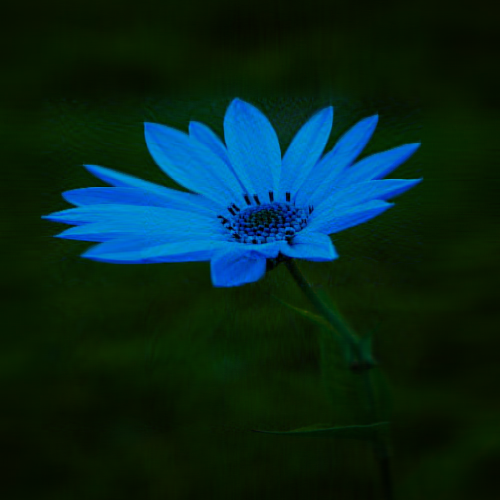
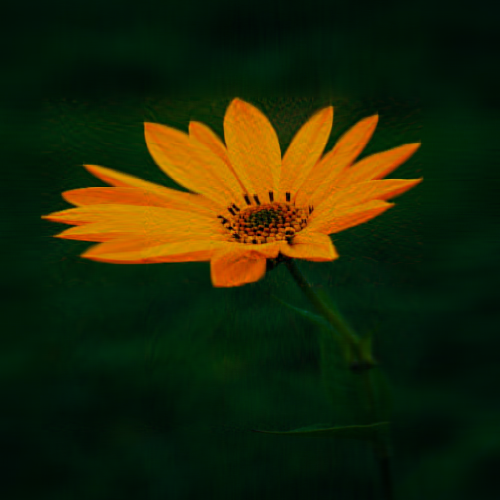
Had to reassemble the colors in a different order than the order I had to display them

Changed region(s): [[0.09, 0.18, 0.84, 0.6]]

diff --git a/Facial-Detection/PCA_compression.py b/Facial-Detection/PCA_compression.py
@@ -59,7 +59,8 @@ g_arr = pca_g.inverse_transform(trans_pca_g)
 r_arr = pca_r.inverse_transform(trans_pca_r)
 
 # merge the photos back to one
-img_reduced = (cv2.merge((b_arr, g_arr, r_arr)))
+img_reduced = (cv2.merge((r_arr, g_arr, b_arr)))
+img_reduced_for_display =(cv2.merge((b_arr, g_arr, r_arr )))
 img_to_write = np.clip((img_reduced / img_reduced.max()) * 255, 1, 255).astype(np.uint8)
 
 # DONT NEED TO PLOT AND SHOW EACH IMAGE
@@ -70,7 +71,7 @@ plt.imshow(full_image)
 
 fig.add_subplot(122)
 plt.title("Reduced Image")
-plt.imshow(img_reduced)
+plt.imshow(img_reduced_for_display)
 
 plt.show()
 
